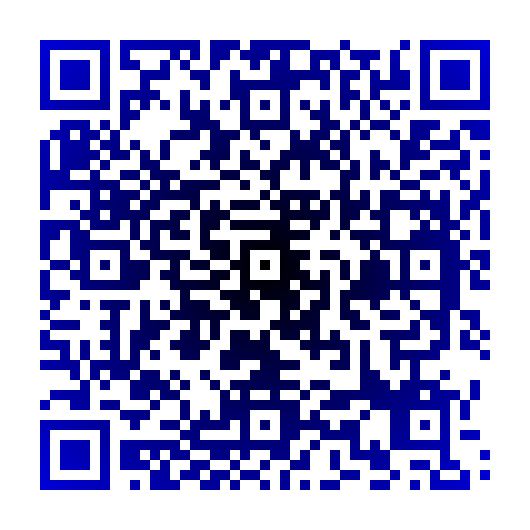
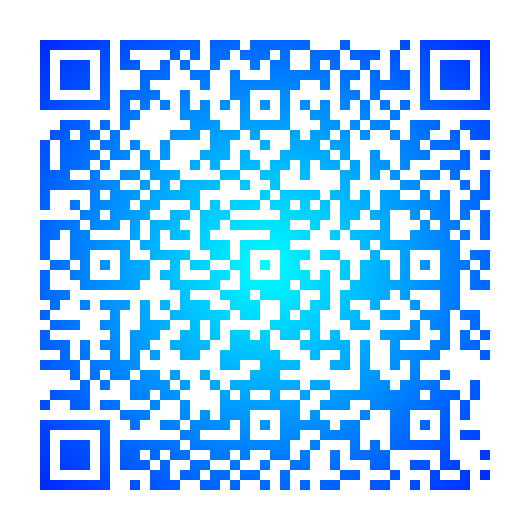
add image colors

diff --git a/qrexample-working.py b/qrexample-working.py
@@ -5,15 +5,23 @@ from qrcode.image.styledpil import StyledPilImage
 from qrcode.image.styles.moduledrawers import RoundedModuleDrawer
 from qrcode.image.styles.colormasks import RadialGradiantColorMask
 
+WHITE = (255, 255, 255)
+BLACK = (0, 0, 0)
+RED = (255, 0, 0)
+TEAL = (0, 255, 255)
+BLUE = (0, 0, 255)
+
[1 lines of base64/hex data omitted]
 
 # 30% or greater error conversion
 qr = qrcode.QRCode(error_correction=qrcode.constants.ERROR_CORRECT_H)
 qr.add_data(lnurl)
 
-img_2 = qr.make_image(image_factory=StyledPilImage, color_mask=RadialGradiantColorMask())
-img_2.save('lnurl.png')
+img_2 = qr.make_image(image_factory=StyledPilImage, color_mask=RadialGradiantColorMask(back_color=WHITE,
+                                                                                       center_color=TEAL,
+                                                                                       edge_color=BLUE))
 
+img_2.save('lnurl.png')
 im = Image.open('lnurl.png')
 im = im.convert("RGBA")
 
@@ -23,5 +31,6 @@ im.crop(box)
 region = logo
 region = region.resize((box[2] - box[0], box[3] - box[1]))
 im.paste(region,box)
+im.save('output.png')
 
 im.show()
